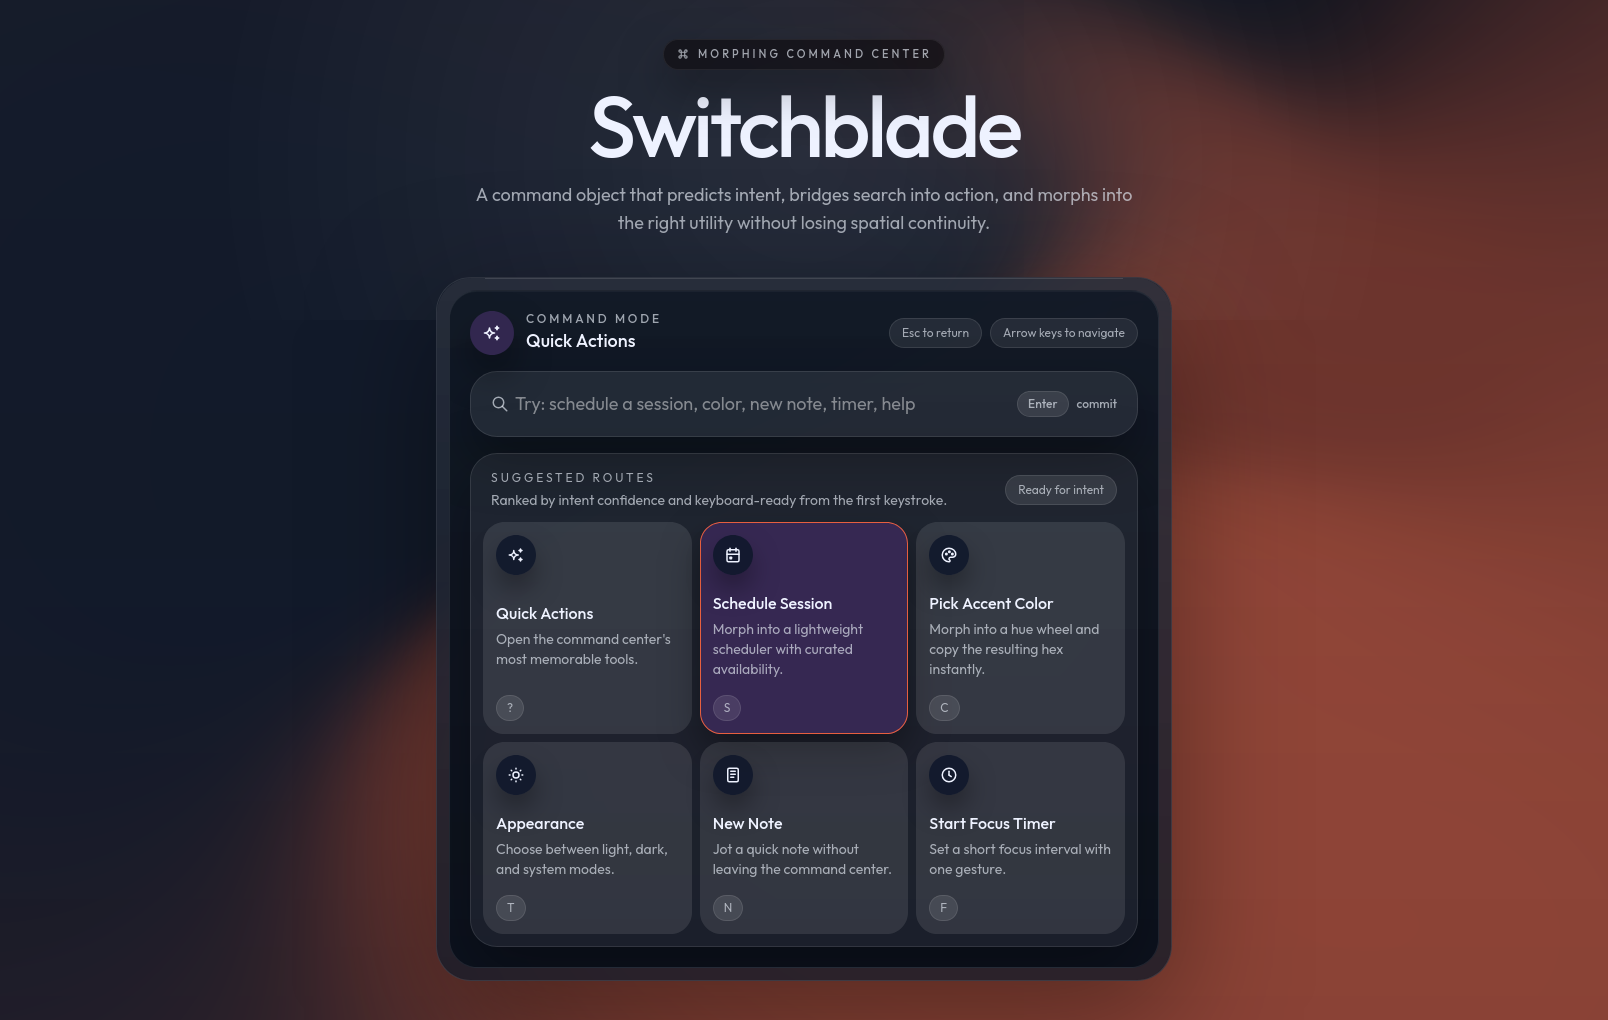
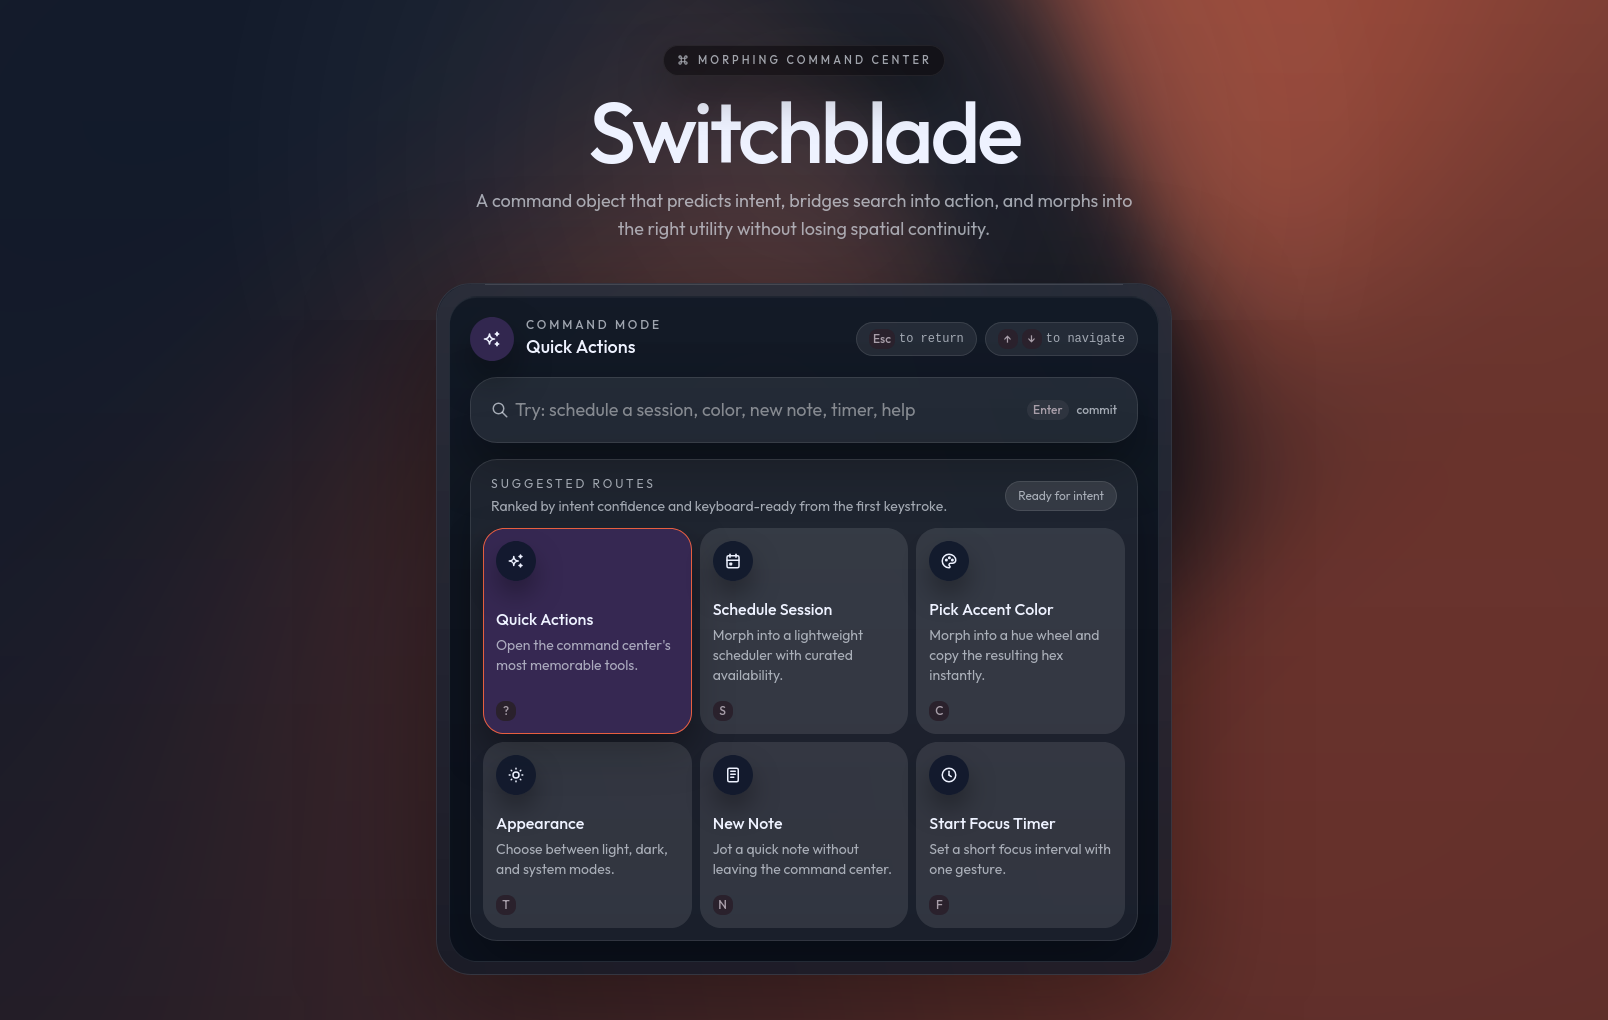
feat: global shortcut layer

diff --git a/src/components/morphing-command-center.tsx b/src/components/morphing-command-center.tsx
@@ -180,6 +180,20 @@ function mixHex(colorA: string, colorB: string, weight = 0.5) {
   )
 }
 
+function isEditableTarget(target: EventTarget | null) {
+  if (!(target instanceof HTMLElement)) {
+    return false
+  }
+
+  if (target.isContentEditable) {
+    return true
+  }
+
+  return Boolean(
+    target.closest("input, textarea, select, [contenteditable='true']")
+  )
+}
+
 function getUtilityIcon(utilityId: UtilityId | null) {
   switch (utilityId) {
     case "calendar":
@@ -1253,6 +1267,35 @@ export function MorphingCommandCenter() {
     []
   )
 
+  const moveHighlight = React.useCallback(
+    (direction: 1 | -1) => {
+      if (!suggestions.length) {
+        return
+      }
+
+      const currentIndex = suggestions.findIndex(
+        (suggestion) => suggestion.id === state.highlightedSuggestionId
+      )
+      const safeIndex = currentIndex >= 0 ? currentIndex : 0
+      const nextSuggestion =
+        suggestions[
+          (safeIndex + direction + suggestions.length) % suggestions.length
+        ]
+
+      dispatch({
+        type: "HIGHLIGHT_SUGGESTION",
+        suggestionId: nextSuggestion?.id ?? null,
+      })
+    },
+    [state.highlightedSuggestionId, suggestions]
+  )
+
+  const commitHighlightedSuggestion = React.useCallback(() => {
+    if (highlightedSuggestion) {
+      launchUtility(highlightedSuggestion.utilityId)
+    }
+  }, [highlightedSuggestion, launchUtility])
+
   const handleCommandKeyDown = (
     event: React.KeyboardEvent<HTMLInputElement>
   ) => {
@@ -1274,73 +1317,141 @@ export function MorphingCommandCenter() {
       return
     }
 
-    const currentIndex = suggestions.findIndex(
-      (suggestion) => suggestion.id === state.highlightedSuggestionId
-    )
-
     if (event.key === "ArrowDown") {
       event.preventDefault()
-      const nextSuggestion =
-        suggestions[
-          (currentIndex + 1 + suggestions.length) % suggestions.length
-        ]
-      dispatch({
-        type: "HIGHLIGHT_SUGGESTION",
-        suggestionId: nextSuggestion?.id ?? null,
-      })
+      moveHighlight(1)
     }
 
     if (event.key === "ArrowUp") {
       event.preventDefault()
-      const nextSuggestion =
-        suggestions[
-          (currentIndex - 1 + suggestions.length) % suggestions.length
-        ]
-      dispatch({
-        type: "HIGHLIGHT_SUGGESTION",
-        suggestionId: nextSuggestion?.id ?? null,
-      })
+      moveHighlight(-1)
     }
 
     if (event.key === "Enter") {
       event.preventDefault()
-      if (highlightedSuggestion) {
-        launchUtility(highlightedSuggestion.utilityId)
-      }
+      commitHighlightedSuggestion()
     }
   }
 
   React.useEffect(() => {
-    const handleGlobalEscape = (event: KeyboardEvent) => {
-      if (event.key !== "Escape") {
-        return
-      }
+    const handleGlobalKeyDown = (event: KeyboardEvent) => {
+      const editable = isEditableTarget(event.target)
 
-      if (
-        state.mode === "utility-active" ||
-        state.mode === "morphing-in" ||
-        state.mode === "utility-success"
-      ) {
-        event.preventDefault()
-        dispatch({ type: "START_MORPH_OUT" })
-        if (!isCompact) {
-          window.setTimeout(() => inputRef.current?.focus(), MORPH_OUT_MS + 40)
+      if (event.key === "Escape") {
+        if (
+          state.mode === "utility-active" ||
+          state.mode === "morphing-in" ||
+          state.mode === "utility-success"
+        ) {
+          event.preventDefault()
+          dispatch({ type: "START_MORPH_OUT" })
+          if (!isCompact) {
+            window.setTimeout(
+              () => inputRef.current?.focus(),
+              MORPH_OUT_MS + 40
+            )
+          }
+          return
+        }
+
+        if (state.query) {
+          event.preventDefault()
+          dispatch({ type: "CHANGE_QUERY", query: "" })
         }
         return
       }
 
-      if (state.query) {
+      if (
+        editable ||
+        event.metaKey ||
+        event.ctrlKey ||
+        event.altKey ||
+        event.repeat
+      ) {
+        return
+      }
+
+      if (event.key === "?" || (event.key === "/" && event.shiftKey)) {
         event.preventDefault()
-        dispatch({ type: "CHANGE_QUERY", query: "" })
+        launchUtility("quick-actions")
+        return
+      }
+
+      if (event.shiftKey) {
+        const key = event.key.toLowerCase()
+
+        if (key === "s") {
+          event.preventDefault()
+          launchUtility("calendar")
+          return
+        }
+
+        if (key === "c") {
+          event.preventDefault()
+          launchUtility("color")
+          return
+        }
+
+        if (key === "t") {
+          event.preventDefault()
+          launchUtility("theme")
+          return
+        }
+
+        if (key === "n") {
+          event.preventDefault()
+          launchUtility("notes")
+          return
+        }
+
+        if (key === "f") {
+          event.preventDefault()
+          launchUtility("timer")
+          return
+        }
+      }
+
+      const isCommandMode =
+        state.mode !== "utility-active" &&
+        state.mode !== "morphing-in" &&
+        state.mode !== "utility-success" &&
+        state.mode !== "morphing-out"
+
+      if (!isCommandMode) {
+        return
+      }
+
+      if (event.key === "ArrowDown") {
+        event.preventDefault()
+        moveHighlight(1)
+        return
+      }
+
+      if (event.key === "ArrowUp") {
+        event.preventDefault()
+        moveHighlight(-1)
+        return
+      }
+
+      if (event.key === "Enter") {
+        event.preventDefault()
+        commitHighlightedSuggestion()
       }
     }
 
-    window.addEventListener("keydown", handleGlobalEscape)
+    window.addEventListener("keydown", handleGlobalKeyDown)
 
     return () => {
-      window.removeEventListener("keydown", handleGlobalEscape)
+      window.removeEventListener("keydown", handleGlobalKeyDown)
     }
-  }, [isCompact, state.mode, state.query])
+  }, [
+    commitHighlightedSuggestion,
+    isCompact,
+    launchUtility,
+    moveHighlight,
+    state.mode,
+    state.query,
+  ])
 
   const activeDefinition = getUtilityDefinition(currentUtility)
   const ease = [0.22, 1, 0.36, 1] as const
